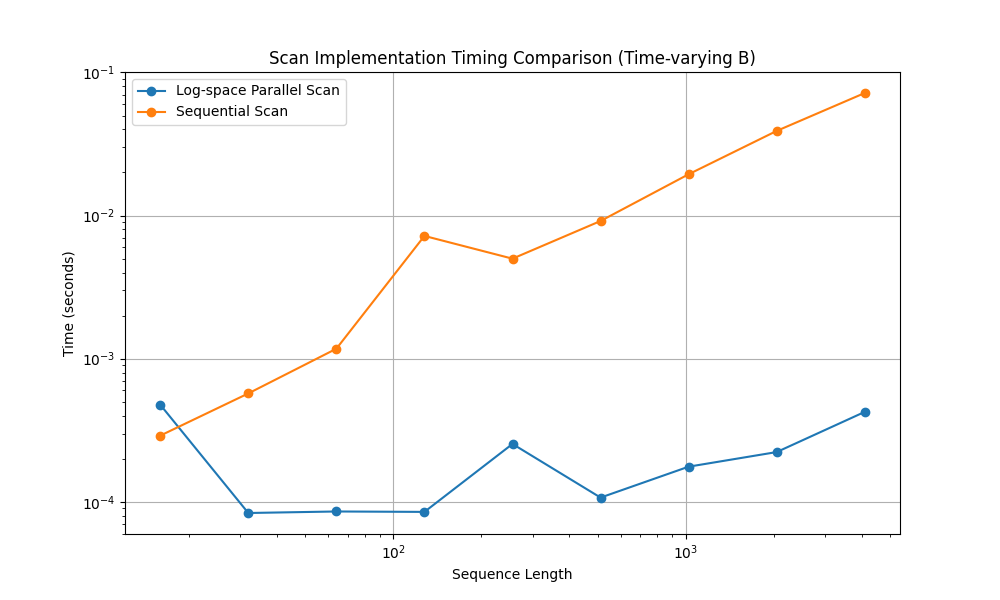
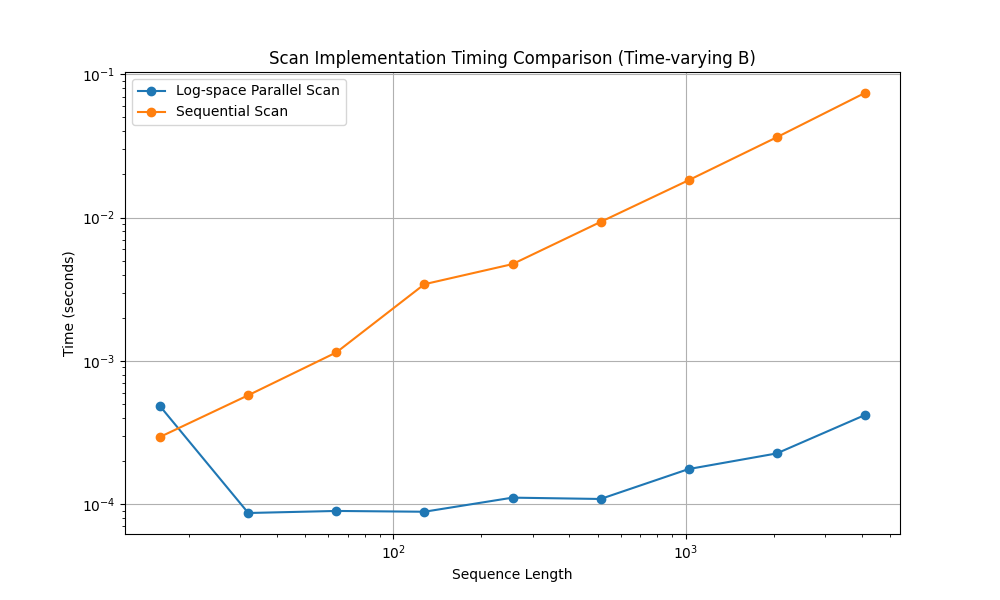
pscan better

diff --git a/src/pscan.py b/src/pscan.py
@@ -6,13 +6,13 @@ import numpy as np
 
 def pscan(A, B, u, Y_init):
     """
-    A: [batch, state]  # element-wise multiplication coefficient
+    A: [state, state]  # state transition matrix
     B: [batch, seq_len, state]  # time-varying input coefficients
     u: [batch, seq_len, input_dim]  # input sequence
     Y_init: [batch, state]  # initial state
     """
     batch_size, seq_len, input_dim = u.shape
-    _, state_size = A.shape
+    state_size, _ = A.shape
     
     # First compute B_t * u_t for each timestep
     X = B * u  # element-wise multiplication [batch, seq_len, state]
@@ -25,7 +25,11 @@ def pscan(A, B, u, Y_init):
     X_complex = (Xa < 0).to(A.dtype)
     X_ = torch.complex(X_real, X_complex * torch.pi)  # [batch, state, seq_len+1]
     
+    # Fix the diagonal extraction to maintain [batch, state] ordering
+    A_diag = A.diagonal().unsqueeze(0)  # [1, state]
+    A = A_diag.expand(batch_size, -1)  # [batch, state]
     A = A.unsqueeze(-1)  # [batch, state, 1]
+    
     A_real = torch.abs(A).log()
     A_complex = (A < 0).to(A.dtype)
     A_ = torch.complex(A_real, A_complex * torch.pi)  # [batch, state, 1]
@@ -41,13 +45,24 @@ def pscan(A, B, u, Y_init):
     return torch.transpose(torch.exp(log_x).real[..., 1:], 1, 2)
 
 def sequential_scan(A, B, u, Y_init):
+    """
+    Sequential implementation for correctness checking
+    
+    A: [state, state]  # state transition matrix
+    B: [batch, seq_len, state]  # time-varying input coefficients
+    u: [batch, seq_len, input_dim]  # input sequence
+    Y_init: [batch, state]  # initial state
+    """
     batch_size, seq_len, input_dim = u.shape
-    _, state_size = A.shape
+    state_size, _ = A.shape
     Y = torch.zeros(batch_size, seq_len, state_size).to(u.device)
     h = Y_init
     
+    # Extract diagonal elements from A for element-wise multiplication
+    A_diag = A.diagonal().unsqueeze(0)  # [1, state]
+    
     for t in range(seq_len):
-        h = A * h + B[:, t, :] * u[:, t, :]
+        h = A_diag * h + B[:, t, :] * u[:, t, :]
         Y[:, t, :] = h
     
     return Y
@@ -58,7 +73,7 @@ def test_correctness():
     input_dim = state_size  # Making input_dim same as state_size for simplicity
     
     # Create test inputs
-    A = torch.randn(batch_size, state_size).to(torch.float32)
+    A = torch.randn(state_size, state_size).to(torch.float32)
     B = torch.randn(batch_size, seq_len, state_size).to(torch.float32)
     u = torch.randn(batch_size, seq_len, input_dim).to(torch.float32)
     Y_init = torch.randn(batch_size, state_size).to(torch.float32)
@@ -89,7 +104,7 @@ def benchmark_timing():
     
     for seq_len in sizes:
         # Setup inputs
-        A = torch.randn(batch_size, state_size).cuda()
+        A = torch.randn(state_size, state_size).cuda()
         B = torch.randn(batch_size, seq_len, state_size).cuda()
         u = torch.randn(batch_size, seq_len, input_dim).cuda()
         Y_init = torch.randn(batch_size, state_size).cuda()

diff --git a/src/main.py b/src/main.py
@@ -2,24 +2,34 @@ import torch
 from torch import nn
 
 from pscan import pscan
+from synaptic_delay import compute_synaptic_delay
 
 DEVICE = torch.device("cuda" if torch.cuda.is_available() else "cpu")
 
-TIMESTEPS = 10
-BATCH_SIZE = 2
+BATCH_SIZE = 1
+HIDDEN_DIM = 2
 CHANNELS = 3
-HIDDEN_DIM = 5
+TIMESTEPS = 4
 
 class SSMSynapticDelay(nn.Module):
     def __init__(self):
         super(SSMSynapticDelay, self).__init__()
-        self.Q = nn.Linear(CHANNELS, HIDDEN_DIM)
-        self.R = nn.Linear(CHANNELS, HIDDEN_DIM)
-        self.A = nn.Linear(HIDDEN_DIM, HIDDEN_DIM)
+
+        self.delay_proj = nn.Linear(CHANNELS, TIMESTEPS)
+        self.A = nn.Linear(CHANNELS, HIDDEN_DIM, bias=False)
+        self.B = nn.Linear(CHANNELS, HIDDEN_DIM, bias=False)
 
     def forward(self, x):
         assert x.shape == (TIMESTEPS, BATCH_SIZE, CHANNELS)
-        a = torch.sigmoid(self.Q(x))
+
+        x_delayed = compute_synaptic_delay(x, self.delay_proj)
+        assert x_delayed.shape == (TIMESTEPS, BATCH_SIZE, CHANNELS)
+
+        b = self.B.weight.unsqueeze(0).repeat(TIMESTEPS, 1, 1).transpose(0, 1)
+        assert b.shape == (TIMESTEPS, HIDDEN_DIM, CHANNELS)
+
+        pscan_output = pscan(self.A.weight, b, x_delayed, torch.zeros(BATCH_SIZE, HIDDEN_DIM).to(DEVICE))
+        
 
 
 
@@ -27,7 +37,8 @@ if __name__ == "__main__":
     print("---")
 
     x = torch.ones(TIMESTEPS, BATCH_SIZE, CHANNELS).to(DEVICE)
-    inital_states = torch.zeros(BATCH_SIZE, CHANNELS).to(DEVICE)
+    model = SSMSynapticDelay().to(DEVICE)
+    model.forward(x)
 
     # this is dumb we shouldn't do it
     # a_t = sigma(Q * x_t)
